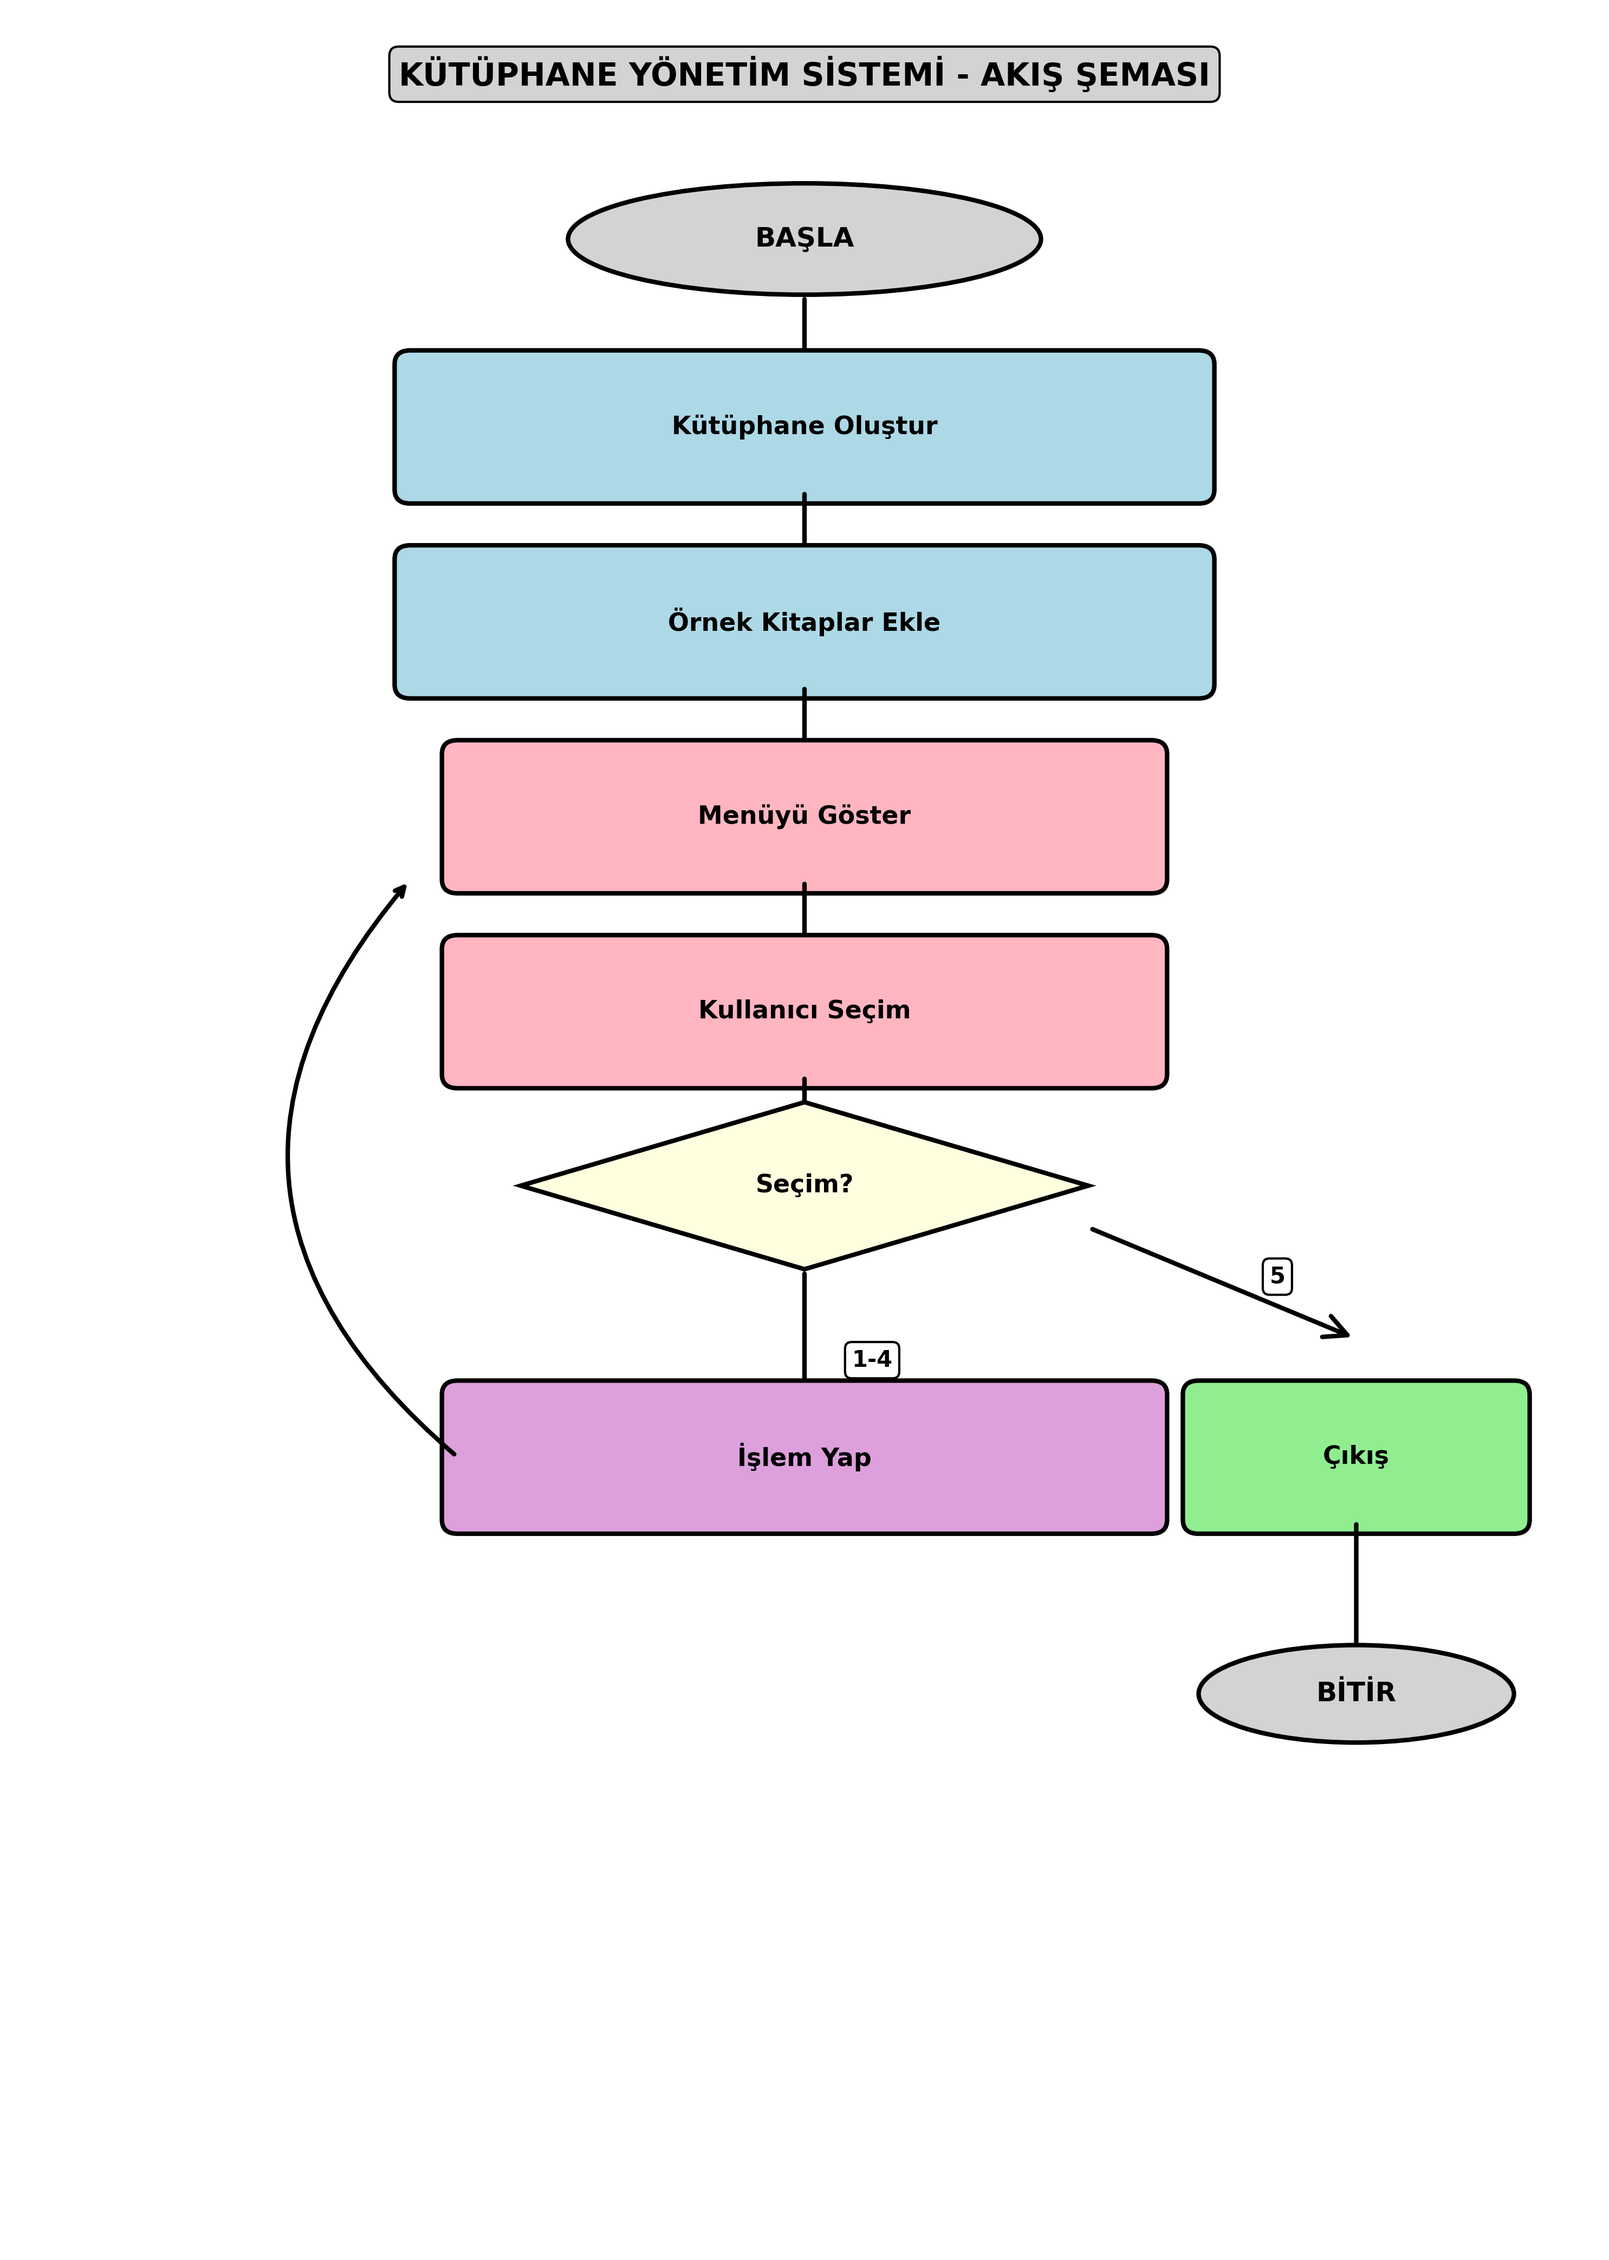
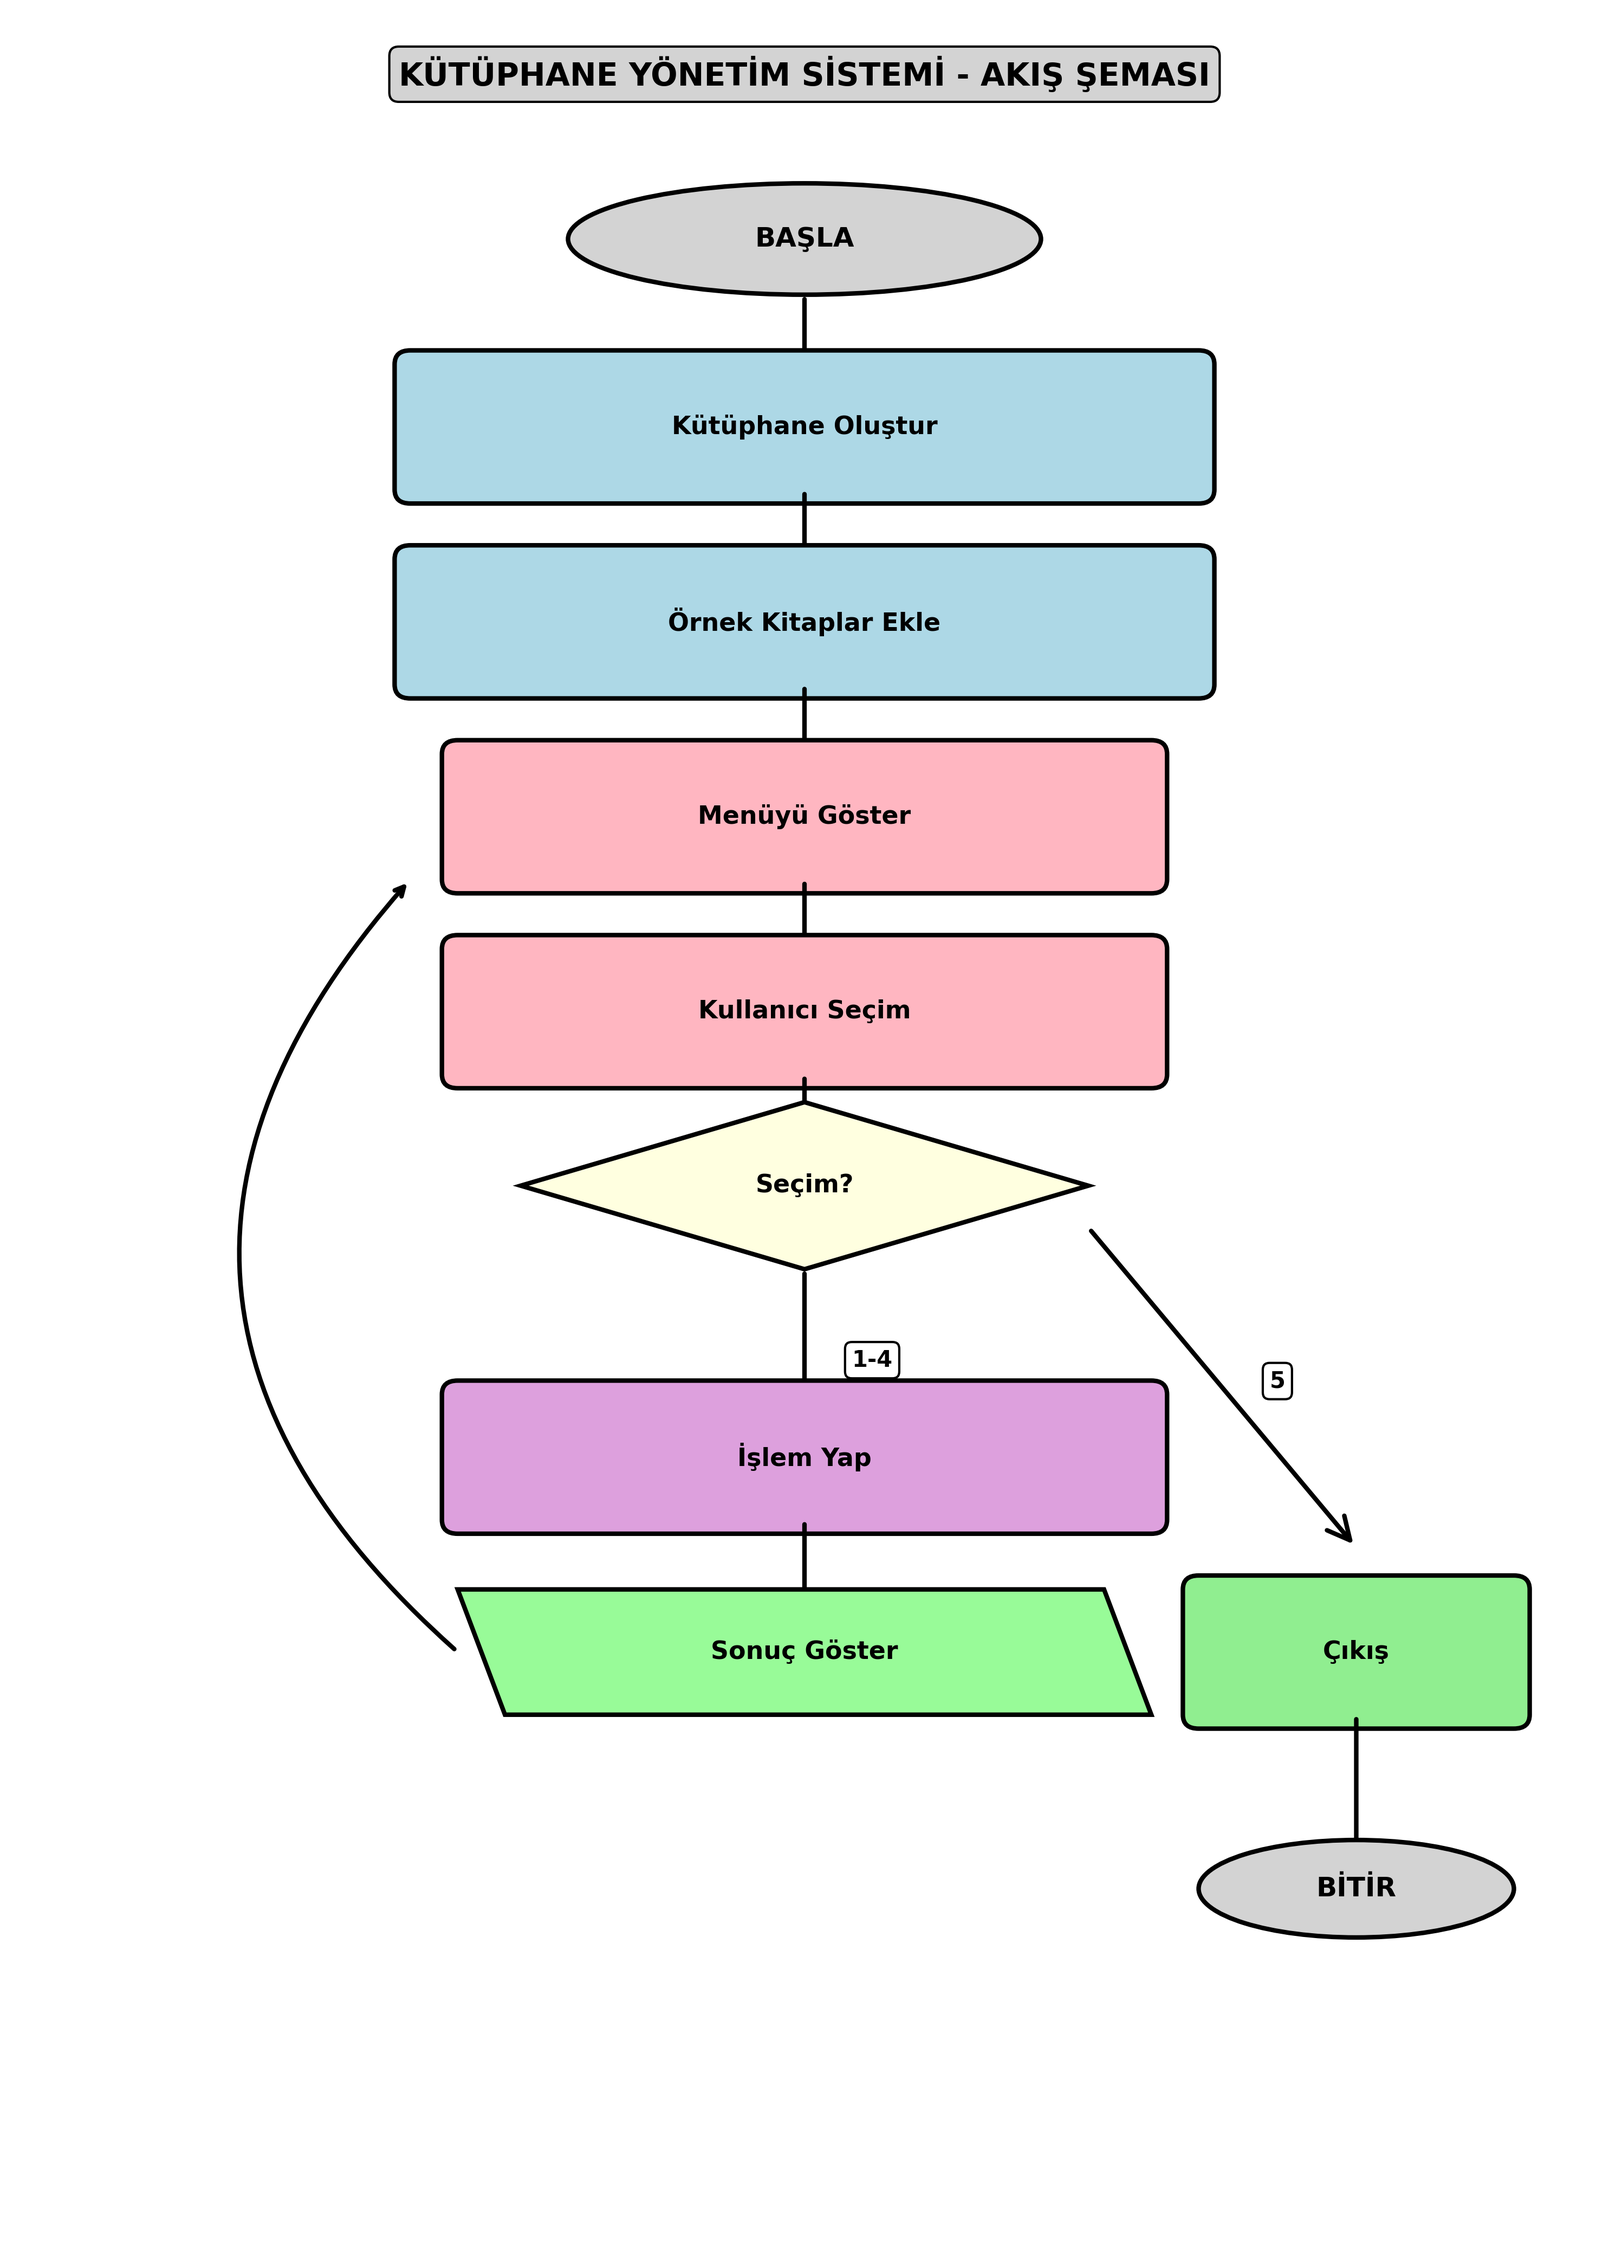
diagram fix

diff --git a/chart_create.py b/chart_create.py
@@ -42,6 +42,20 @@ def draw_diamond(ax, x, y, width, height, text, color='yellow'):
             fontsize=11, weight='bold')
 
 
+def draw_parallelogram(ax, x, y, width, height, text, color='lightgreen'):
+    """Paralel kenar çizer (girdi/çıktı için)"""
+    offset = 0.3
+    points = [[x + offset, y], [x + width, y],
+              [x + width - offset, y + height], [x, y + height]]
+    parallelogram = Polygon(points, closed=True,
+                           edgecolor='black', facecolor=color, linewidth=2)
+    ax.add_patch(parallelogram)
+    center_x = x + width / 2
+    center_y = y + height / 2
+    ax.text(center_x, center_y, text, ha='center', va='center',
+            fontsize=11, weight='bold')
+
+
 def draw_arrow(ax, x1, y1, x2, y2, label=''):
     """Ok çizer"""
     arrow = FancyArrowPatch((x1, y1), (x2, y2),
@@ -104,6 +118,11 @@ def create_flowchart():
     # 7. İşlem yap (1-4)
     draw_arrow(ax, 5, decision_y, 5, decision_y - 1.4, '1-4')
     draw_box(ax, 2.8, y, 4.4, 0.9, 'İşlem Yap', '#DDA0DD')
+    draw_arrow(ax, 5, y, 5, y - 1.2)
+    y -= 1.4
+
+    # 8. Sonuç Göster (paralel kenar - çıktı)
+    draw_parallelogram(ax, 2.8, y, 4.4, 0.9, 'Sonuç Göster', '#98FB98')
 
     # Menüye geri dön
     ax.annotate('', xy=(2.5, menu_y), xytext=(2.8, y + 0.45),
@@ -111,7 +130,7 @@ def create_flowchart():
                              connectionstyle="arc3,rad=-0.5"))
 
     # 8. Çıkış (5)
-    draw_arrow(ax, 6.8, decision_y + 0.3, 8.5, decision_y - 0.5, '5')
+    draw_arrow(ax, 6.8, decision_y + 0.3, 8.5, decision_y - 2, '5')
     draw_box(ax, 7.5, y, 2, 0.9, 'Çıkış', '#90EE90')
     draw_arrow(ax, 8.5, y, 8.5, y - 1.2)
     draw_oval(ax, 7.5, y - 1.6, 2, 0.7, 'BİTİR', '#D3D3D3')
